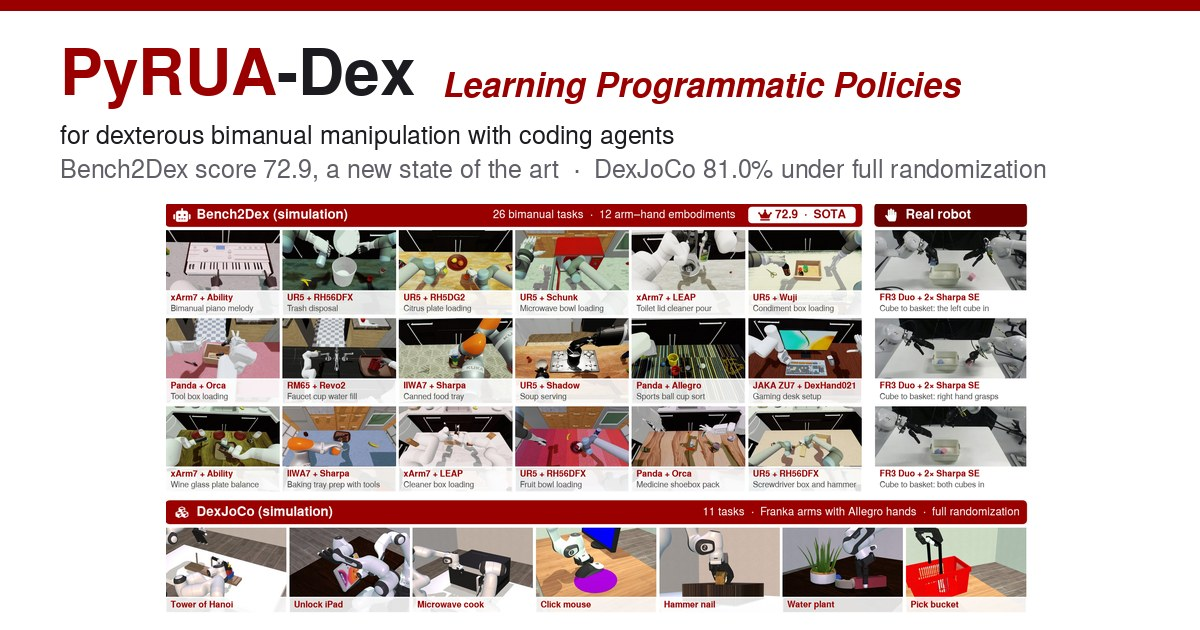
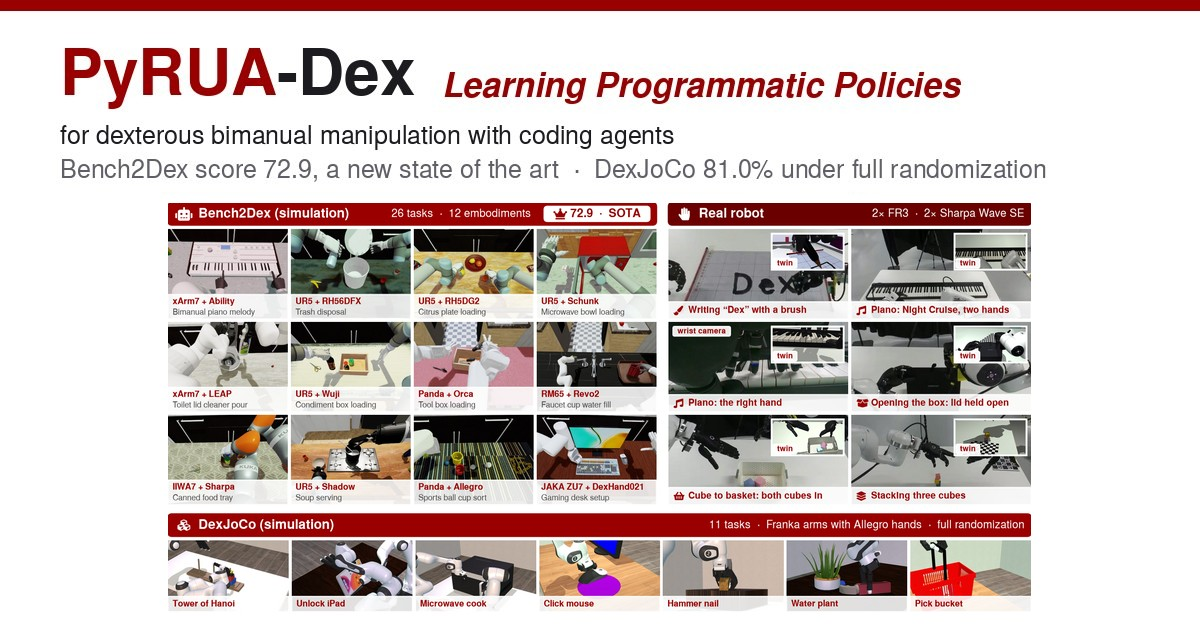
Deploying to gh-pages from @ vme0522/vme0522.github.io@d672144d1f24e81a7470a88d2a067cb336da5e1c 🚀

diff --git a/PyRUA-Dex/index.html b/PyRUA-Dex/index.html
@@ -97,7 +97,7 @@
       </video>
     </div>
     <div class="org"><img src="static/images/pku-emblem.svg" alt="Peking University emblem" width="36" height="36"><span>Peking University · DAGroup</span></div>
-    <h1 class="title"><span class="wm-py">PyRUA</span><span class="wm-dex">-<img class="wm-hand" src="static/images/dex-handwritten.svg?v=2" alt="Dex" width="1916" height="813"></span></h1>
+    <h1 class="title"><span class="wm-py">PyRUA</span><span class="wm-dex">-<img class="wm-hand" src="static/images/dex-handwritten.svg?v=3" alt="Dex" width="1885" height="813"></span></h1>
     <p class="sub1">Learning Programmatic Policies</p>
     <p class="sub2">for Dexterous Bimanual Manipulation with Coding Agents</p>
     <p class="authors">
@@ -169,7 +169,7 @@
       <div class="badge"><svg class="ic"><use href="#i-bolt"/></svg></div>
       <div class="stat-v">2.3<small>×</small></div>
       <div class="stat-k">the success rate of the same model acting online</div>
-      <div class="stat-t">61.5% vs 26.2% at the benchmark's step budget, with no tokens at test time</div>
+      <div class="stat-t">at the benchmark's step budget, with no tokens at test time</div>
     </div>
     <div class="stat">
       <div class="badge"><svg class="ic"><use href="#i-cube"/></svg></div>
@@ -190,7 +190,7 @@
     <div class="abs-grid">
       <div class="card abstract rv">
         <h3><svg class="ic"><use href="#i-paper"/></svg>Abstract</h3>
-        <p>Dexterous bimanual manipulation is usually learned from demonstrations, which are expensive to collect for multi-fingered hands and do not carry over from one hand to another. We show that coding agents can instead learn a <em>programmatic policy</em> for each task from their own trials in simulation: a program that runs frozen, with no demonstrations, no trained weights and no language-model calls at test time. <b>PyRUA-Dex</b> learns such a policy in two stages. In the <em>explore</em> stage, eight GPT-6 Astra agents work the task in parallel on fresh layouts, with rewinds and the simulator's stage feedback, and a distilling agent turns their frozen replays into a task library and a champion program. In the <em>practise</em> stage, one agent takes over the champion and treats the task as a chain of links: it runs single links over tens of layouts, lets failed stage functions try again, and keeps a new champion only if it is no worse on 32 development layouts. On Bench2Dex (26 bimanual tasks, 12 arm–hand embodiments, 5,200 evaluation episodes), the explored champions score 59.1 and the practised champions 72.9 (success rate 44.6% → 60.6%), a new state of the art on the benchmark, ahead of the best trained policy (70.5). At the benchmark's step budget the programmatic policies succeed 2.3 times as often as a GPT-6 Astra agent that controls the robot online, which needs ten times the budget and 34M tokens per episode to match them. On DexJoCo (11 tasks for Franka arms with Allegro hands), they succeed in 88.5% of the episodes under object randomization and 81.0% under full randomization of cameras, lighting and textures, against 54.1% and 40.3% for the best of the benchmark's trained policies and 78.2% for the online GPT-6 Astra agent. On a bimanual Franka FR3 rig with two 22-DoF Sharpa hands, the same procedure, run in a calibrated MuJoCo twin with objects reconstructed from a phone video, yields a frozen program that runs on the real robot.</p>
+        <p>Dexterous bimanual manipulation is usually learned from demonstrations, which are costly to collect for multi-fingered hands and do not transfer between hands. We show that coding agents can instead learn a <em>programmatic policy</em> for each task from their own trials in simulation: a program that runs frozen at test time, without demonstrations, trained weights or language-model calls. <b>PyRUA-Dex</b> learns it in two stages. In the <em>explore</em> stage, eight GPT-6 Astra agents search in parallel for a way through the task, with rewinds and stage feedback, and a distilling agent turns what scored into a task library and a champion. In the <em>practise</em> stage, one agent makes that way hold by strengthening its weakest link over many layouts, keeping a new champion only if it does no worse on unseen development layouts. On Bench2Dex (26 bimanual tasks on 12 arm–hand embodiments), practising lifts the score from 59.1 to 72.9, a new state of the art, and the frozen programs succeed 2.3 times as often as the same model acting online at the same step budget. On DexJoCo, they succeed in 88.5% of episodes under object randomization and 81.0% under full randomization, above the benchmark's trained policies and the online agent. On a real bimanual rig with two 22-DoF hands, the same procedure learns in a calibrated twin refined by the robot's feedback, its frozen programs run on the robot, and with a skill shared within a task family, a new task typically takes under an hour.</p>
       </div>
       <div class="glance">
         <div class="g-item rv"><div class="badge"><svg class="ic"><use href="#i-ban"/></svg></div><div><b>No demonstrations</b><span>Agents learn from their own trials in simulation, with rewinds and the simulator's stage count.</span></div></div>
@@ -328,7 +328,7 @@
     <div class="sec-head rv">
       <span class="eyebrow"><svg class="ic"><use href="#i-hand"/></svg>Real robot</span>
       <h2>From the twin to the real robot</h2>
-      <p class="lead">All learning happens in a simulated twin of our rig. Stage 1 runs as on Bench2Dex; Stage 2 runs round after round, and what the robot shows adjusts the twin for the next round. What reaches the robot is the frozen champion, with no language-model call.</p>
+      <p class="lead">All learning happens in a simulated twin of our rig. Stage 1 runs as on Bench2Dex; Stage 2 runs round after round, and what the robot shows adjusts the twin for the next round. What reaches the robot is the frozen program, with no language-model call.</p>
     </div>
     <div class="rig rv">
       <span><svg class="ic"><use href="#i-robot"/></svg>2 × Franka FR3 arms</span>
@@ -389,7 +389,7 @@
           </div>
         </section>
         <section class="th-fam" id="th-fam-piano" role="tabpanel" aria-labelledby="th-tab-piano" data-n="5" hidden>
-          <p class="th-desc"><svg class="ic"><use href="#i-piano"/></svg>Both hands play a piece from its score. Each film opens with the sound check, sped up.</p>
+          <p class="th-desc"><svg class="ic"><use href="#i-piano"/></svg>Both hands play a piece from its score. One skill shared by the piano family arranges a score for the two hands and plays it; with it a new piece typically takes under an hour of iteration. Each film opens with the sound check, sped up.</p>
           <div class="th-track">
             <figure class="th-slide" data-i="0">
               <div class="th-media">
@@ -466,8 +466,8 @@
 
     <h3 class="h3 rv"><svg class="ic"><use href="#i-sim"/></svg>Real to sim to real</h3>
     <figure class="fig rv">
-      <a class="zoom" href="static/images/paper/fig-r2s2r.webp?v=20261122b"><img src="static/images/paper/fig-r2s2r.webp?v=20261122b" alt="Real to sim to real on the rig: the twin built from a phone video and the rig's calibration, learning in the twin with Stage 1 once and Stage 2 round after round, the frozen champion on the robot, four adjustments the robot's feedback made to the twin, and the dev layouts completed after each round for stacking three cubes and three piano pieces" width="1959" height="816" loading="lazy"></a>
-      <figcaption><b>Real to sim to real on the rig.</b> A phone video and the rig's calibration give the twin; Stage 1 runs once and Stage 2 round after round, and the robot's feedback adjusts the twin between rounds (bottom: four such adjustments and the dev layouts completed after each round).</figcaption>
+      <a class="zoom" href="static/images/paper/fig-r2s2r.webp?v=20261123"><img src="static/images/paper/fig-r2s2r.webp?v=20261123" alt="Real to sim to real on the rig: four real objects beside their twin models, four tasks in the twin's own renders with Stage 1 once and Stage 2 round after round, the same four tasks on the robot, four adjustments the robot's feedback made to the twin, and the dev layouts completed after each round for stacking three cubes and three piano pieces" width="1959" height="852" loading="lazy"></a>
+      <figcaption><b>Real to sim to real on the rig.</b> Objects modelled from a phone video or photographs and the rig's calibration give the twin; Stage 1 runs once and Stage 2 round after round, and the robot's feedback adjusts the twin between rounds (bottom: four such adjustments and the dev layouts completed after each round).</figcaption>
     </figure>
 
     <h3 class="h3 rv"><svg class="ic"><use href="#i-sim"/></svg>Learning on the rig</h3>
@@ -475,17 +475,19 @@
     <div class="card twin-card rv">
       <div class="twin-top">
         <div class="legend"><span class="key"><i></i>Stage 1 champion</span><span class="key"><i class="s2"></i>Stage 2 champion, last round</span></div>
-        <div class="twin-total">All 5 tasks: <b>116 → 155</b> of 160 dev layouts (72% → 97%)</div>
+        <div class="twin-total">All 6 tasks: <b>119 → 168</b> of 192 dev layouts (62% → 88%)</div>
       </div>
       <div class="dumb">
         <div class="dumb-row" style="--a:29;--b:32"><div class="dumb-name"><b>Cube to basket</b><small>each hand puts its cube in the basket · 1 round</small></div><div class="track2"><span class="seg"></span><span class="pt" tabindex="0" data-v="29 / 32" data-l="Cube to basket · Stage 1"></span><span class="pt s2" tabindex="0" data-v="32 / 32" data-l="Cube to basket · Stage 2"></span></div><div class="dumb-v">29 → <b>32</b></div></div>
         <div class="dumb-row" style="--a:6;--b:30"><div class="dumb-name"><b>Stack cubes</b><small>a tower of three cubes · 4 rounds</small></div><div class="track2"><span class="seg"></span><span class="pt" tabindex="0" data-v="6 / 32" data-l="Stack cubes · Stage 1"></span><span class="pt s2" tabindex="0" data-v="30 / 32" data-l="Stack cubes · Stage 2"></span></div><div class="dumb-v">6 → <b>30</b></div></div>
+        <div class="dumb-row" style="--a:3;--b:14"><div class="dumb-name"><b>Write “Dex”</b><small>take the brush and write “Dex” on the cloth · 1 round</small></div><div class="track2"><span class="seg"></span><span class="pt" tabindex="0" data-v="3 / 32" data-l="Write “Dex” · Stage 1"></span><span class="pt s2" tabindex="0" data-v="14 / 32" data-l="Write “Dex” · Stage 2"></span></div><div class="dumb-v">3 → <b>14</b></div></div>
         <div class="dumb-group">Piano</div>
         <div class="dumb-row" style="--a:29;--b:32"><div class="dumb-name"><b>Ode to Joy</b><small>the right hand, eight phrases · 5 rounds</small></div><div class="track2"><span class="seg"></span><span class="pt" tabindex="0" data-v="29 / 32" data-l="Piano, Ode to Joy · Stage 1"></span><span class="pt s2" tabindex="0" data-v="32 / 32" data-l="Piano, Ode to Joy · Stage 2"></span></div><div class="dumb-v">29 → <b>32</b></div></div>
-        <div class="dumb-row" style="--a:29;--b:32"><div class="dumb-name"><b>Twinkle, Twinkle</b><small>two hands, tune and bass, six phrases · 4 rounds</small></div><div class="track2"><span class="seg"></span><span class="pt" tabindex="0" data-v="29 / 32" data-l="Piano, Twinkle, Twinkle · Stage 1"></span><span class="pt s2" tabindex="0" data-v="32 / 32" data-l="Piano, Twinkle, Twinkle · Stage 2"></span></div><div class="dumb-v">29 → <b>32</b></div></div>
+        <div class="dumb-row" style="--a:29;--b:31"><div class="dumb-name"><b>Twinkle, Twinkle</b><small>two hands, tune and bass, six phrases · 5 rounds</small></div><div class="track2"><span class="seg"></span><span class="pt" tabindex="0" data-v="29 / 32" data-l="Piano, Twinkle, Twinkle · Stage 1"></span><span class="pt s2" tabindex="0" data-v="31 / 32" data-l="Piano, Twinkle, Twinkle · Stage 2"></span></div><div class="dumb-v">29 → <b>31</b></div></div>
         <div class="dumb-row" style="--a:23;--b:29"><div class="dumb-name"><b>Little Jumping Frog</b><small>two hands, tune and bass, eight phrases · 1 round</small></div><div class="track2"><span class="seg"></span><span class="pt" tabindex="0" data-v="23 / 32" data-l="Piano, Little Jumping Frog · Stage 1"></span><span class="pt s2" tabindex="0" data-v="29 / 32" data-l="Piano, Little Jumping Frog · Stage 2"></span></div><div class="dumb-v">23 → <b>29</b></div></div>
         <div class="dumb-axis" aria-hidden="true"><span class="axis-pad"></span><div class="axis-ticks"><span style="left:0%">0</span><span style="left:25%">8</span><span style="left:50%">16</span><span style="left:75%">24</span><span style="left:100%">32</span></div><span class="axis-unit">of 32</span></div>
       </div>
+      <div class="skill-note"><span class="pill"><svg class="ic"><use href="#i-piano"/></svg>Piano · same-family skill</span><span>A new piece typically takes 30 minutes to an hour of iteration: Jasmine, Night Cruise, Secret Base, Little Jumping Frog (whole), Canon.</span></div>
       <details class="table-toggle">
         <summary>Show as a table</summary>
         <table class="twin-table">
@@ -493,11 +495,14 @@
           <tbody>
             <tr><td>Cube to basket</td><td>each hand puts its cube in the basket</td><td class="num">1200</td><td class="num">29</td><td class="num">32</td><td class="num">1</td></tr>
             <tr><td>Stack cubes</td><td>a tower of three cubes</td><td class="num">1000</td><td class="num">6</td><td class="num">30</td><td class="num">4</td></tr>
+            <tr><td>Write “Dex”</td><td>take the brush and write “Dex” on the cloth</td><td class="num">1500</td><td class="num">3</td><td class="num">14</td><td class="num">1</td></tr>
             <tr class="grp"><td colspan="6">Piano</td></tr>
             <tr><td>Ode to Joy</td><td>the right hand, eight phrases</td><td class="num">4500</td><td class="num">29</td><td class="num">32</td><td class="num">5</td></tr>
-            <tr><td>Twinkle, Twinkle</td><td>two hands, tune and bass, six phrases</td><td class="num">4500</td><td class="num">29</td><td class="num">32</td><td class="num">4</td></tr>
+            <tr><td>Twinkle, Twinkle</td><td>two hands, tune and bass, six phrases</td><td class="num">4500</td><td class="num">29</td><td class="num">31</td><td class="num">5</td></tr>
             <tr><td>Little Jumping Frog</td><td>two hands, tune and bass, eight phrases</td><td class="num">6000</td><td class="num">23</td><td class="num">29</td><td class="num">1</td></tr>
-            <tr><td><b>Total</b></td><td></td><td></td><td class="num"><b>116 / 160</b></td><td class="num"><b>155 / 160</b></td><td></td></tr>
+            <tr><td><b>Total</b></td><td></td><td></td><td class="num"><b>119 / 192</b></td><td class="num"><b>168 / 192</b></td><td></td></tr>
+            <tr class="grp"><td colspan="6">Piano, same-family skill (30 min to 1 h of iteration)</td></tr>
+            <tr><td colspan="6">Jasmine, Night Cruise, Secret Base, Little Jumping Frog (whole), Canon</td></tr>
           </tbody>
         </table>
       </details>

diff --git a/blog/2024/tabs/index.html b/blog/2024/tabs/index.html
@@ -17,16 +17,16 @@ Content 2
 <span class="cp">{%</span><span class="w"> </span><span class="nt">endtab</span><span class="w"> </span><span class="cp">%}</span>
 
 <span class="cp">{%</span><span class="w"> </span><span class="nt">endtabs</span><span class="w"> </span><span class="cp">%}</span>
-</code></pre></div></div> <p>With this you can generate visualizations like:</p> <ul id="log" class="tab" data-tab="ff0bc00e-41b3-4b98-ba24-ccf0cdbc04ea" data-name="log"> <li class="active" id="log-php"> <a href="#">php </a> </li> <li id="log-js"> <a href="#">js </a> </li> <li id="log-ruby"> <a href="#">ruby </a> </li> </ul> <ul class="tab-content" id="ff0bc00e-41b3-4b98-ba24-ccf0cdbc04ea" data-name="log"> <li class="active"> <div class="language-php highlighter-rouge"><div class="highlight"><pre class="highlight"><code><span class="nb">var_dump</span><span class="p">(</span><span class="s1">'hello'</span><span class="p">);</span>
+</code></pre></div></div> <p>With this you can generate visualizations like:</p> <ul id="log" class="tab" data-tab="30154c23-9a83-44c6-901d-4dcf16fcdbae" data-name="log"> <li class="active" id="log-php"> <a href="#">php </a> </li> <li id="log-js"> <a href="#">js </a> </li> <li id="log-ruby"> <a href="#">ruby </a> </li> </ul> <ul class="tab-content" id="30154c23-9a83-44c6-901d-4dcf16fcdbae" data-name="log"> <li class="active"> <div class="language-php highlighter-rouge"><div class="highlight"><pre class="highlight"><code><span class="nb">var_dump</span><span class="p">(</span><span class="s1">'hello'</span><span class="p">);</span>
 </code></pre></div></div> </li> <li> <div class="language-javascript highlighter-rouge"><div class="highlight"><pre class="highlight"><code><span class="nx">console</span><span class="p">.</span><span class="nf">log</span><span class="p">(</span><span class="dl">"</span><span class="s2">hello</span><span class="dl">"</span><span class="p">);</span>
 </code></pre></div></div> </li> <li> <div class="language-javascript highlighter-rouge"><div class="highlight"><pre class="highlight"><code><span class="nx">pputs</span> <span class="dl">'</span><span class="s1">hello</span><span class="dl">'</span>
-</code></pre></div></div> </li> </ul> <h2 id="another-example">Another example</h2> <ul id="data-struct" class="tab" data-tab="4490bb5b-fe09-4ddf-a12b-29535b30c7f0" data-name="data-struct"> <li class="active" id="data-struct-yaml"> <a href="#">yaml </a> </li> <li id="data-struct-json"> <a href="#">json </a> </li> </ul> <ul class="tab-content" id="4490bb5b-fe09-4ddf-a12b-29535b30c7f0" data-name="data-struct"> <li class="active"> <div class="language-yaml highlighter-rouge"><div class="highlight"><pre class="highlight"><code><span class="na">hello</span><span class="pi">:</span>
+</code></pre></div></div> </li> </ul> <h2 id="another-example">Another example</h2> <ul id="data-struct" class="tab" data-tab="04bf6984-d3b1-4f0c-976c-0c1f0071ca46" data-name="data-struct"> <li class="active" id="data-struct-yaml"> <a href="#">yaml </a> </li> <li id="data-struct-json"> <a href="#">json </a> </li> </ul> <ul class="tab-content" id="04bf6984-d3b1-4f0c-976c-0c1f0071ca46" data-name="data-struct"> <li class="active"> <div class="language-yaml highlighter-rouge"><div class="highlight"><pre class="highlight"><code><span class="na">hello</span><span class="pi">:</span>
   <span class="pi">-</span> <span class="s2">"</span><span class="s">whatsup"</span>
   <span class="pi">-</span> <span class="s2">"</span><span class="s">hi"</span>
 </code></pre></div></div> </li> <li> <div class="language-json highlighter-rouge"><div class="highlight"><pre class="highlight"><code><span class="p">{</span><span class="w">
   </span><span class="nl">"hello"</span><span class="p">:</span><span class="w"> </span><span class="p">[</span><span class="s2">"whatsup"</span><span class="p">,</span><span class="w"> </span><span class="s2">"hi"</span><span class="p">]</span><span class="w">
 </span><span class="p">}</span><span class="w">
-</span></code></pre></div></div> </li> </ul> <h2 id="tabs-for-something-else">Tabs for something else</h2> <ul id="something-else" class="tab" data-tab="81654cf4-52bb-4dfb-a8de-b8c75497b6b0" data-name="something-else"> <li class="active" id="something-else-text"> <a href="#">text </a> </li> <li id="something-else-quote"> <a href="#">quote </a> </li> <li id="something-else-list"> <a href="#">list </a> </li> </ul> <ul class="tab-content" id="81654cf4-52bb-4dfb-a8de-b8c75497b6b0" data-name="something-else"> <li class="active"> <p>Regular text</p> </li> <li> <blockquote> <p>A quote</p> </blockquote> </li> <li> <p>Hipster list</p> <ul> <li>brunch</li> <li>fixie</li> <li>raybans</li> <li>messenger bag</li> </ul> </li> </ul> </div> </article> <br> <hr> <br> <h2 class="text-3xl font-semibold mb-4 mt-12">Enjoy Reading This Article?</h2> <p class="mb-2">Here are some more articles you might like to read next:</p> <ul class="list-disc pl-7 my-3 space-y-2 marker:text-[var(--global-theme-color)]"> <li class="leading-relaxed"> <a class="underline decoration-1 hover:text-[var(--global-hover-color)]" href="https://blog.google/technology/ai/google-gemini-update-flash-ai-assistant-io-2024/" target="_blank" rel="noopener noreferrer">Google Gemini updates: Flash 1.5, Gemma 2 and Project Astra</a> <svg width="1rem" height="1rem" viewbox="0 0 30 30" xmlns="http://www.w3.org/2000/svg" aria-hidden="true"> <path d="M17 13.5v6H5v-12h6m3-3h6v6m0-6-9 9" class="icon_svg-stroke" stroke="#999" stroke-width="1.5" fill="none" fill-rule="evenodd" stroke-linecap="round" stroke-linejoin="round"></path> </svg> </li> <li class="leading-relaxed"> <a class="underline decoration-1 hover:text-[var(--global-hover-color)]" href="https://medium.com/@al-folio/displaying-external-posts-on-your-al-folio-blog-b60a1d241a0a?source=rss-17feae71c3c4------2" target="_blank" rel="noopener noreferrer">Displaying External Posts on Your al-folio Blog</a> <svg width="1rem" height="1rem" viewbox="0 0 30 30" xmlns="http://www.w3.org/2000/svg" aria-hidden="true"> <path d="M17 13.5v6H5v-12h6m3-3h6v6m0-6-9 9" class="icon_svg-stroke" stroke="#999" stroke-width="1.5" fill="none" fill-rule="evenodd" stroke-linecap="round" stroke-linejoin="round"></path> </svg> </li> <li class="leading-relaxed"> <a class="underline decoration-1 hover:text-[var(--global-hover-color)]" href="/blog/2025/marimo/">a post with marimo snippets</a> </li> <li class="leading-relaxed"> <a class="underline decoration-1 hover:text-[var(--global-hover-color)]" href="/blog/2025/plotly/">a post with plotly.js</a> </li> <li class="leading-relaxed"> <a class="underline decoration-1 hover:text-[var(--global-hover-color)]" href="/blog/2024/photo-gallery/">a post with image galleries</a> </li> <li class="leading-relaxed"> <a class="underline decoration-1 hover:text-[var(--global-hover-color)]" href="/blog/2024/typograms/">a post with typograms</a> </li> <li class="leading-relaxed"> <a class="underline decoration-1 hover:text-[var(--global-hover-color)]" href="/blog/2024/post-citation/">a post that can be cited</a> </li> <li class="leading-relaxed"> <a class="underline decoration-1 hover:text-[var(--global-hover-color)]" href="/blog/2024/pseudocode/">a post with pseudo code</a> </li> <li class="leading-relaxed"> <a class="underline decoration-1 hover:text-[var(--global-hover-color)]" href="/blog/2024/code-diff/">a post with code diff</a> </li> <li class="leading-relaxed"> <a class="underline decoration-1 hover:text-[var(--global-hover-color)]" href="/blog/2024/advanced-images/">a post with advanced image components</a> </li> </ul> </div> </div> <footer class="sticky-bottom mt-5" role="contentinfo"> <div class="container"> © Copyright 2026 Feixiang Ruan. Powered by <a href="https://jekyllrb.com/" target="_blank" rel="external nofollow noopener">Jekyll</a> with <a href="https://github.com/alshedivat/al-folio" rel="external nofollow noopener" target="_blank">al-folio</a>. Hosted by <a href="https://pages.github.com/" target="_blank" rel="external nofollow noopener">GitHub Pages</a>. </div> </footer> <script>
+</span></code></pre></div></div> </li> </ul> <h2 id="tabs-for-something-else">Tabs for something else</h2> <ul id="something-else" class="tab" data-tab="9752750d-a490-49c6-a075-2c9d92d60f04" data-name="something-else"> <li class="active" id="something-else-text"> <a href="#">text </a> </li> <li id="something-else-quote"> <a href="#">quote </a> </li> <li id="something-else-list"> <a href="#">list </a> </li> </ul> <ul class="tab-content" id="9752750d-a490-49c6-a075-2c9d92d60f04" data-name="something-else"> <li class="active"> <p>Regular text</p> </li> <li> <blockquote> <p>A quote</p> </blockquote> </li> <li> <p>Hipster list</p> <ul> <li>brunch</li> <li>fixie</li> <li>raybans</li> <li>messenger bag</li> </ul> </li> </ul> </div> </article> <br> <hr> <br> <h2 class="text-3xl font-semibold mb-4 mt-12">Enjoy Reading This Article?</h2> <p class="mb-2">Here are some more articles you might like to read next:</p> <ul class="list-disc pl-7 my-3 space-y-2 marker:text-[var(--global-theme-color)]"> <li class="leading-relaxed"> <a class="underline decoration-1 hover:text-[var(--global-hover-color)]" href="https://blog.google/technology/ai/google-gemini-update-flash-ai-assistant-io-2024/" target="_blank" rel="noopener noreferrer">Google Gemini updates: Flash 1.5, Gemma 2 and Project Astra</a> <svg width="1rem" height="1rem" viewbox="0 0 30 30" xmlns="http://www.w3.org/2000/svg" aria-hidden="true"> <path d="M17 13.5v6H5v-12h6m3-3h6v6m0-6-9 9" class="icon_svg-stroke" stroke="#999" stroke-width="1.5" fill="none" fill-rule="evenodd" stroke-linecap="round" stroke-linejoin="round"></path> </svg> </li> <li class="leading-relaxed"> <a class="underline decoration-1 hover:text-[var(--global-hover-color)]" href="https://medium.com/@al-folio/displaying-external-posts-on-your-al-folio-blog-b60a1d241a0a?source=rss-17feae71c3c4------2" target="_blank" rel="noopener noreferrer">Displaying External Posts on Your al-folio Blog</a> <svg width="1rem" height="1rem" viewbox="0 0 30 30" xmlns="http://www.w3.org/2000/svg" aria-hidden="true"> <path d="M17 13.5v6H5v-12h6m3-3h6v6m0-6-9 9" class="icon_svg-stroke" stroke="#999" stroke-width="1.5" fill="none" fill-rule="evenodd" stroke-linecap="round" stroke-linejoin="round"></path> </svg> </li> <li class="leading-relaxed"> <a class="underline decoration-1 hover:text-[var(--global-hover-color)]" href="/blog/2025/marimo/">a post with marimo snippets</a> </li> <li class="leading-relaxed"> <a class="underline decoration-1 hover:text-[var(--global-hover-color)]" href="/blog/2025/plotly/">a post with plotly.js</a> </li> <li class="leading-relaxed"> <a class="underline decoration-1 hover:text-[var(--global-hover-color)]" href="/blog/2024/photo-gallery/">a post with image galleries</a> </li> <li class="leading-relaxed"> <a class="underline decoration-1 hover:text-[var(--global-hover-color)]" href="/blog/2024/typograms/">a post with typograms</a> </li> <li class="leading-relaxed"> <a class="underline decoration-1 hover:text-[var(--global-hover-color)]" href="/blog/2024/post-citation/">a post that can be cited</a> </li> <li class="leading-relaxed"> <a class="underline decoration-1 hover:text-[var(--global-hover-color)]" href="/blog/2024/pseudocode/">a post with pseudo code</a> </li> <li class="leading-relaxed"> <a class="underline decoration-1 hover:text-[var(--global-hover-color)]" href="/blog/2024/code-diff/">a post with code diff</a> </li> <li class="leading-relaxed"> <a class="underline decoration-1 hover:text-[var(--global-hover-color)]" href="/blog/2024/advanced-images/">a post with advanced image components</a> </li> </ul> </div> </div> <footer class="sticky-bottom mt-5" role="contentinfo"> <div class="container"> © Copyright 2026 Feixiang Ruan. Powered by <a href="https://jekyllrb.com/" target="_blank" rel="external nofollow noopener">Jekyll</a> with <a href="https://github.com/alshedivat/al-folio" rel="external nofollow noopener" target="_blank">al-folio</a>. Hosted by <a href="https://pages.github.com/" target="_blank" rel="external nofollow noopener">GitHub Pages</a>. </div> </footer> <script>
   window.alFolio = {
     compatBootstrap: false
   };

diff --git a/assets/jupyter/blog.ipynb.html b/assets/jupyter/blog.ipynb.html
@@ -1,4 +1,4 @@
-<!DOCTYPE html> <html lang="en"> <head><meta charset="utf-8"/> <meta content="width=device-width, initial-scale=1.0" name="viewport"/> <title>jekyll-jupyter-notebook20261123-3502-dipju8</title><script src="https://cdnjs.cloudflare.com/ajax/libs/require.js/2.1.10/require.min.js"></script> <style type="text/css">
+<!DOCTYPE html> <html lang="en"> <head><meta charset="utf-8"/> <meta content="width=device-width, initial-scale=1.0" name="viewport"/> <title>jekyll-jupyter-notebook20261123-3313-4w8avz</title><script src="https://cdnjs.cloudflare.com/ajax/libs/require.js/2.1.10/require.min.js"></script> <style type="text/css">
     pre { line-height: 125%; }
 td.linenos .normal { color: inherit; background-color: transparent; padding-left: 5px; padding-right: 5px; }
 span.linenos { color: inherit; background-color: transparent; padding-left: 5px; padding-right: 5px; }

diff --git a/PyRUA-Dex/static/css/site.css b/PyRUA-Dex/static/css/site.css
@@ -342,6 +342,7 @@ tr.ours.s1 .score .fill { background: var(--rose); }
 .key i.s2 { background: var(--red); }
 .twin-total { font-size: 14.5px; color: var(--sub); }
 .twin-total b { color: var(--ink); }
+.skill-note { display: flex; flex-wrap: wrap; align-items: center; gap: 6px 12px; margin-top: 14px; font-size: 13.5px; line-height: 1.5; color: var(--sub); }
 .dumb { position: relative; }
 .dumb-group { padding: 12px 0 2px; font-size: 11.5px; font-weight: 700; letter-spacing: .08em; text-transform: uppercase; color: var(--red); }
 .twin-table tr.grp td { padding-top: 10px; font-weight: 700; color: var(--red); }
